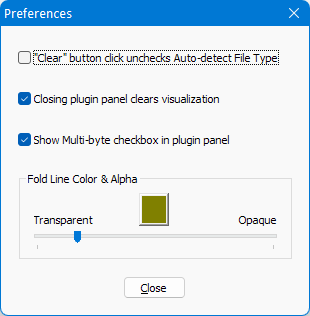
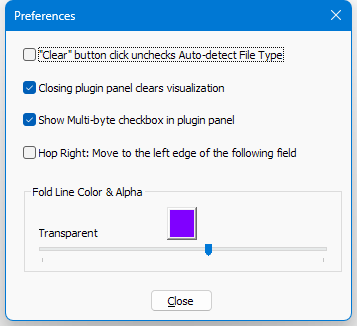
Updated docs for "User-customizable Field Hop Right behavior"

diff --git a/docs/field_navigation.md b/docs/field_navigation.md
@@ -17,9 +17,18 @@ More frequently, there is a need to hop to the other edge of the current field o
 
 For field hops, use the left and right arrow buttons on either side of the _Jump to Field_ button. Or better still, use the `ALT + Left Arrow` or `ALT + Right Arrow` keyboard shortcuts.
 
-* With a left hop, if the cursor is already at the left edge of the current field, it will move to the left edge of the preceding field within the same record.
+#### Left Hop action
+* The cursor will initially move to the left edge of the current field.
+* If the cursor is already at the left edge of the current field, it will move to the left edge of the preceding field within the same record.
 
-* With a right hop, if the cursor is already at the right edge of the current field, it will move to the right edge of the following field within the same record.
+#### Right Hop action
+The action of Right Hop is dependent on the state of the [Hop Right: Move to the left edge of the following field](https://github.com/shriprem/FWDataViz/blob/master/docs/preferences_dialog.md#hop-right-move-to-the-left-edge-of-the-following-field-default-unchecked) checkbox in the Preferences dialog.
+ * When the [Hop Right: Move to the left edge of the following field](https://github.com/shriprem/FWDataViz/blob/master/docs/preferences_dialog.md#hop-right-move-to-the-left-edge-of-the-following-field-default-unchecked) option is unchecked:
+   * The cursor will initially move to the right edge of the current field.
+   * If the cursor is already at the right edge of the current field, it will move to the right edge of the following field within the same record.
+
+ * When the [Hop Right: Move to the left edge of the following field](https://github.com/shriprem/FWDataViz/blob/master/docs/preferences_dialog.md#hop-right-move-to-the-left-edge-of-the-following-field-default-unchecked) option is checked:
+    * The cursor will move to the left edge of the following field within the same record.
 
 
-See also: [Field Copy and Field Paste](https://github.com/shriprem/FWDataViz/blob/master/docs/field_copy_paste.md) | [Menu Item Keyboard Shortcuts](https://github.com/shriprem/FWDataViz/blob/master/docs/menu_shortcuts.md)
+See also: [Field Copy and Field Paste](https://github.com/shriprem/FWDataViz/blob/master/docs/field_copy_paste.md) | [Preferences: Hop Right](https://github.com/shriprem/FWDataViz/blob/master/docs/preferences_dialog.md#hop-right-move-to-the-left-edge-of-the-following-field-default-unchecked) | [Menu Item Keyboard Shortcuts](https://github.com/shriprem/FWDataViz/blob/master/docs/menu_shortcuts.md)

diff --git a/docs/preferences_dialog.md b/docs/preferences_dialog.md
@@ -13,6 +13,10 @@
 ### Show Multi-byte check box in plugin panel [_Default: Unchecked_]
 When this box is checked, the _Multi-Byte Chars_ checkbox will become visible on the plugin panel. Since this is a **_3-state_** checkbox, please review the documentation for it at: [Multi-byte Character Data Visualization](https://github.com/shriprem/FWDataViz/blob/master/docs/multibyte_character_data.md#quick-override-from-panel).
 
+### Hop Right: Move to the left edge of the following field [_Default: Unchecked_]
+* When this box is unchecked, clicking the right [Hop](https://github.com/shriprem/FWDataViz/blob/master/docs/field_navigation.md#hop-field) button will move cursor to the right edge of the current field. If already at the right edge of the field, the cursor will be moved to the right edge of the following field.
+* When this box is checked, clicking the right [Hop](https://github.com/shriprem/FWDataViz/blob/master/docs/field_navigation.md#hop-field) button will move cursor to the left edge of the following field.
+
 ### Fold Line Color & Alpha
 * Click the colored square to specify the color for the lines that indicate the folding block headers. [_Notepad++ default color: Black_]
 * Adjust the slider to specify the color transparency (alpha) for the lines that indicate the folding block headers. [_Notepad++ default value: Opaque_]
